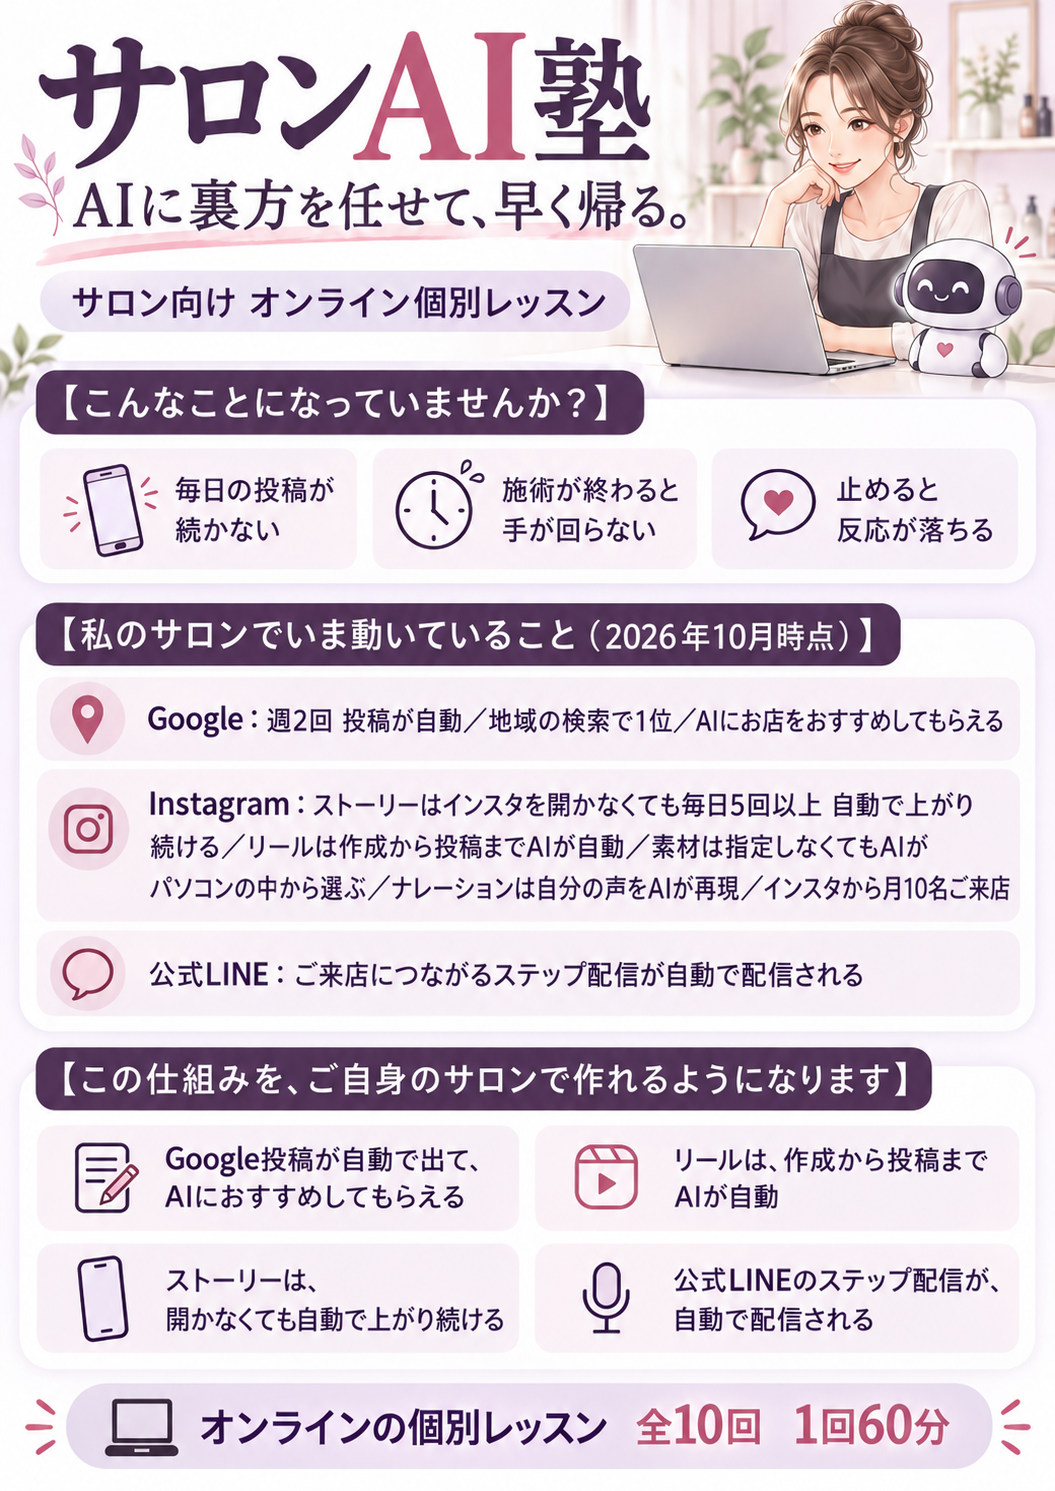
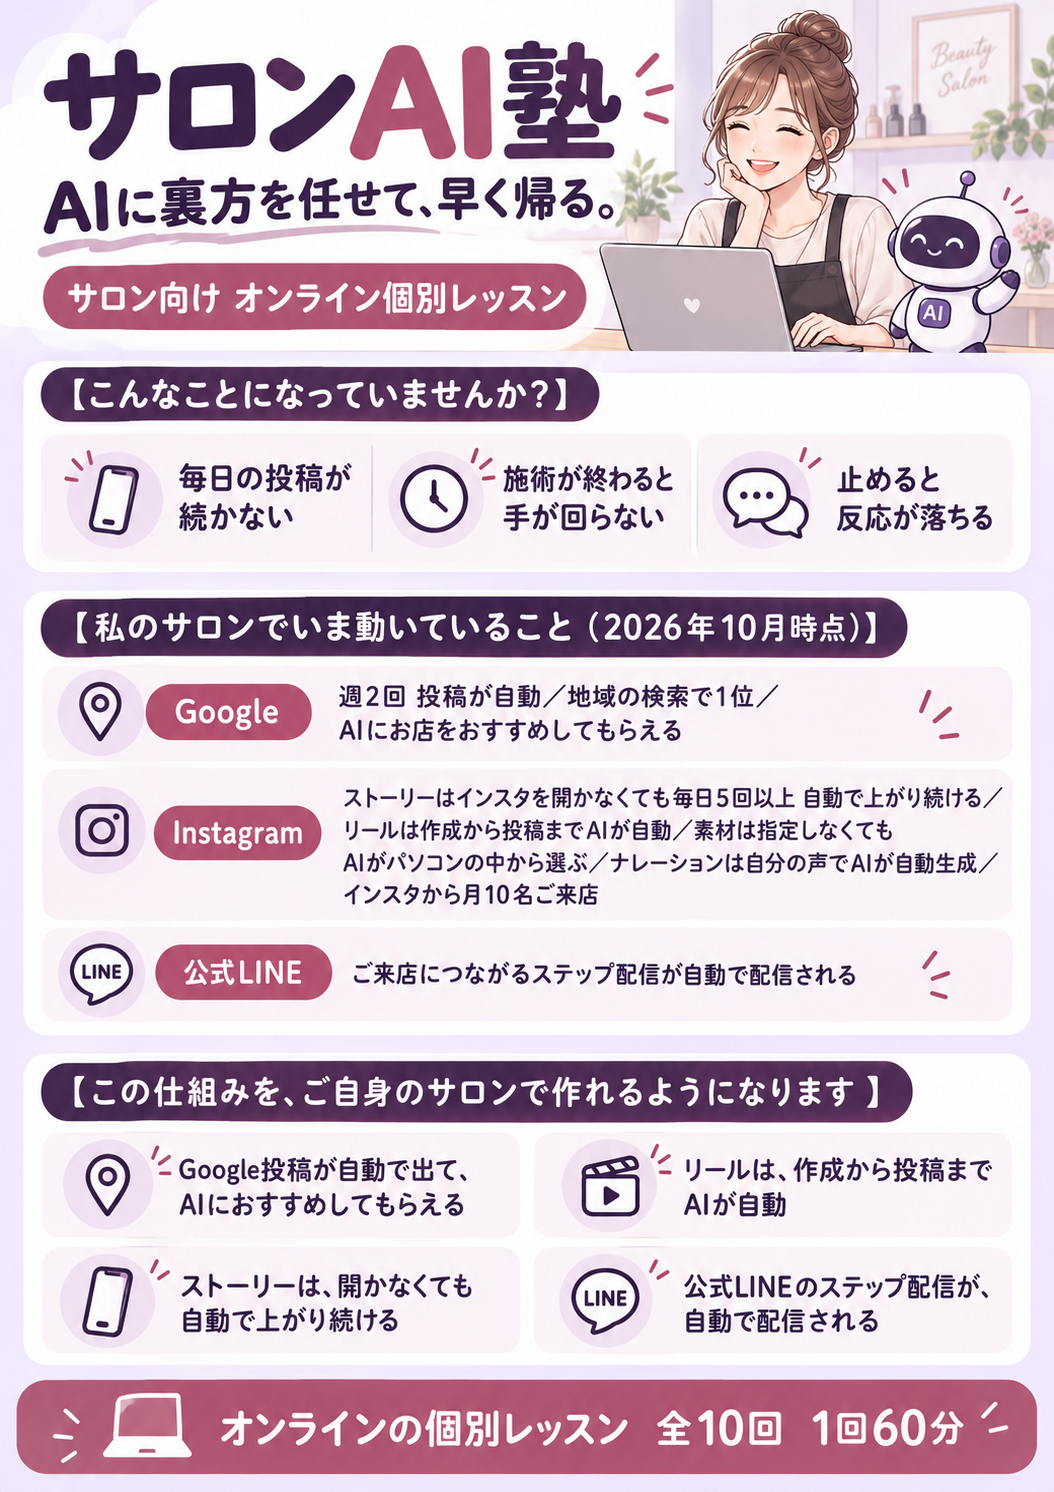
fix: 案内画像を差し替え（ナレーションは自分の声でAIが自動生成）
Claude-Session: https://claude.ai/code/session_01SQEPjvsSrdDBAS5PyZm1MM

diff --git a/saas_app/public/salon-ai-school.html b/saas_app/public/salon-ai-school.html
@@ -83,8 +83,8 @@
     <p class="eyebrow">サロン向け AI 個別レッスン</p>
 
     <div class="sheet">
-      <img src="/salon-ai-school.png" width="1055" height="1491"
-           alt="サロンAI塾の案内。AIに裏方を任せて、早く帰る。サロン向けオンライン個別レッスン。私のサロンでいま動いていること（2026年10月時点）は、Googleが週2回の自動投稿と地域の検索で1位、AIにお店をおすすめしてもらえること。Instagramはストーリーがインスタを開かなくても毎日5回以上自動で上がり続け、リールは作成から投稿までAIが自動、素材は指定しなくてもAIがパソコンの中から選び、ナレーションは自分の声をAIが再現、インスタから月10名のご来店。公式LINEはご来店につながるステップ配信が自動で配信されること。この仕組みをご自身のサロンで作れるようになります。オンラインの個別レッスン 全10回 1回60分。">
+      <img src="/salon-ai-school.png" width="1054" height="1492"
+           alt="サロンAI塾の案内。AIに裏方を任せて、早く帰る。サロン向けオンライン個別レッスン。私のサロンでいま動いていること（2026年10月時点）は、Googleが週2回の自動投稿と地域の検索で1位、AIにお店をおすすめしてもらえること。Instagramはストーリーがインスタを開かなくても毎日5回以上自動で上がり続け、リールは作成から投稿までAIが自動、素材は指定しなくてもAIがパソコンの中から選び、ナレーションは自分の声でAIが自動生成、インスタから月10名のご来店。公式LINEはご来店につながるステップ配信が自動で配信されること。この仕組みをご自身のサロンで作れるようになります。オンラインの個別レッスン 全10回 1回60分。">
     </div>
 
     <a class="btn" href="/salon-ai-school.pdf">資料を見る</a>
